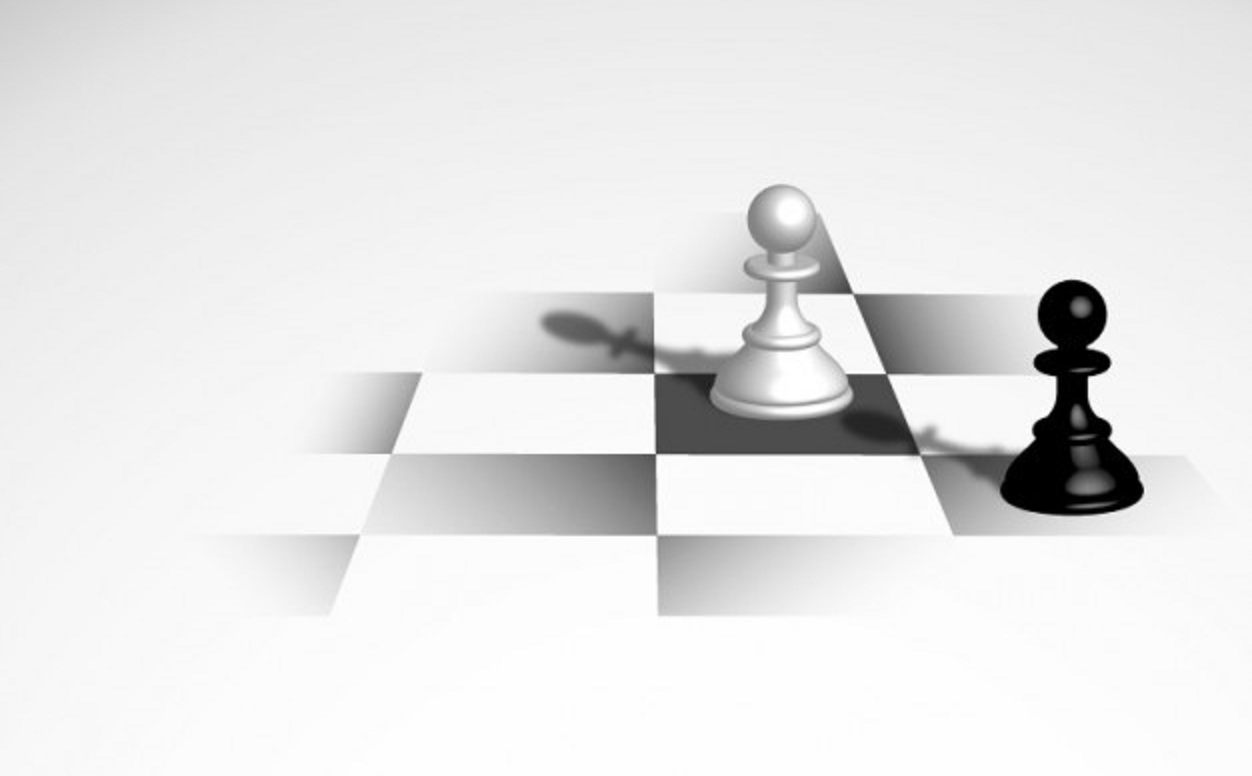
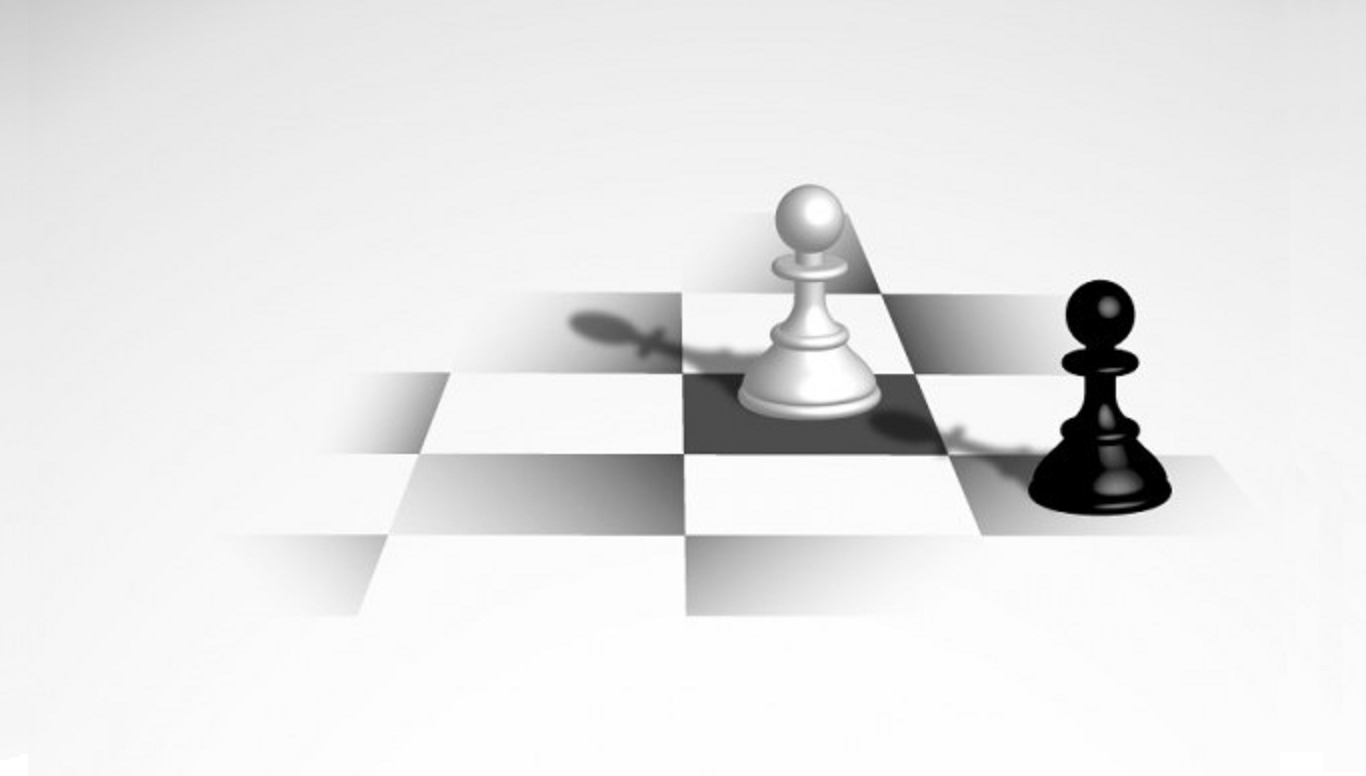
Arreglo el fondo
Arreglé el fondo

Changed region(s): [[0.405, 0.2165, 0.9345, 0.8041], [0.3115, 0.4639, 0.3427, 0.5876], [0.2804, 0.5876, 0.3115, 0.6186]]

diff --git a/select.php b/select.php
@@ -36,7 +36,7 @@
 </select>
              <br></br>
         <input type="hidden" name="process" value="yes" /><br>
-&nbsp<input type="submit" class="btn" value="Enviar" />
+    <input type="submit" class="btn" value="Enviar" />
     </div>
    
 </form>
